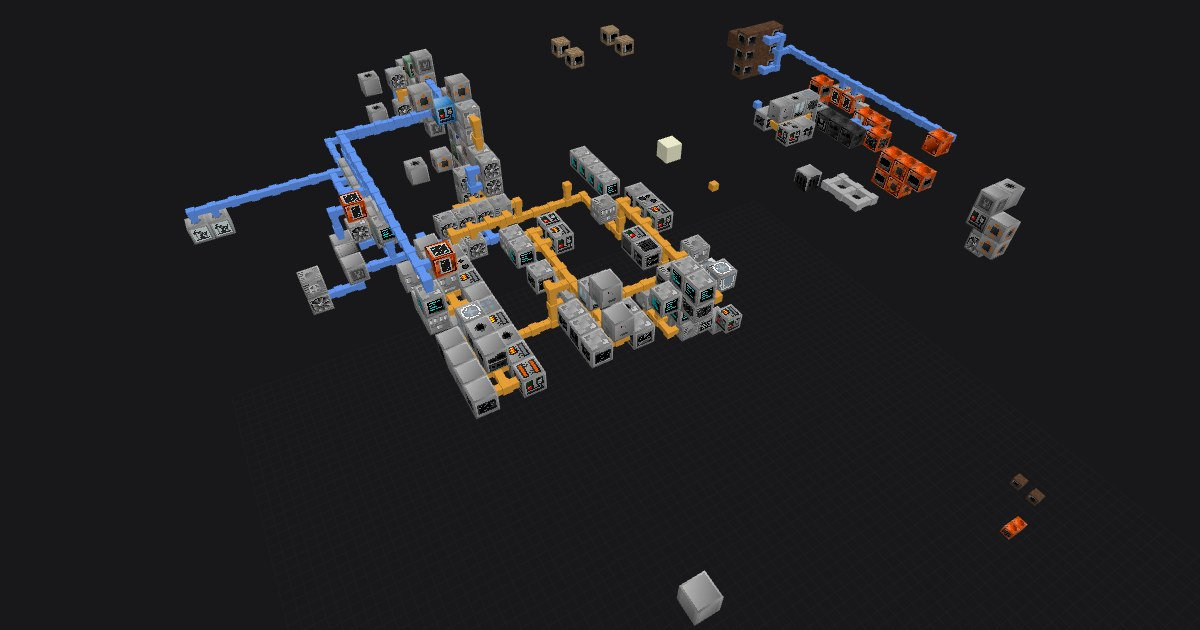
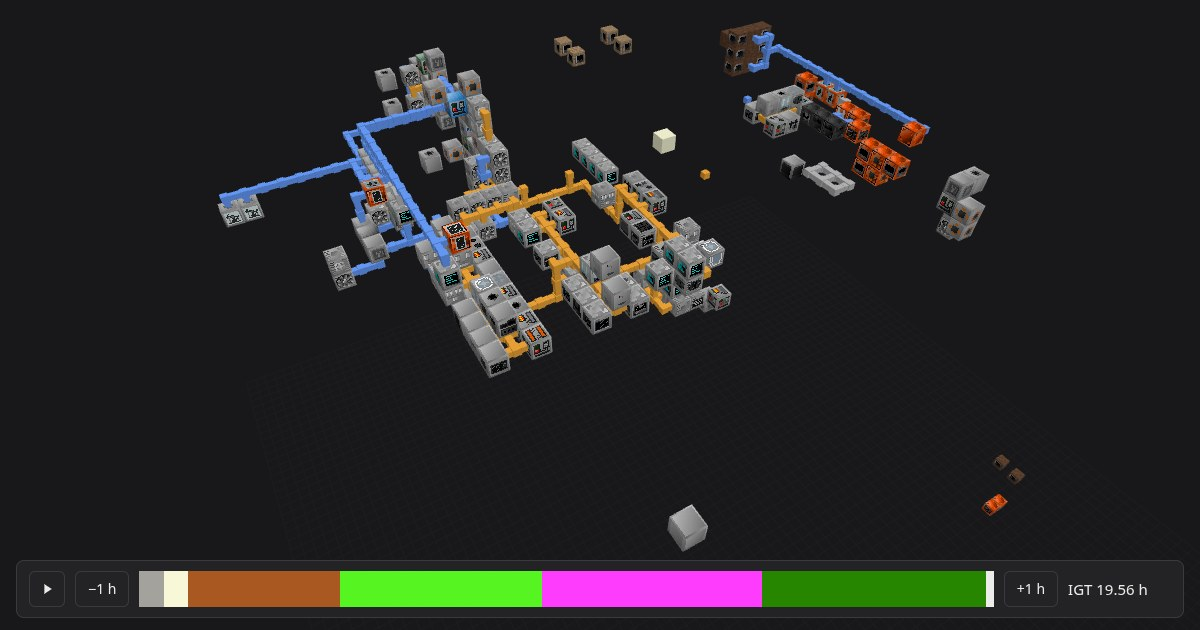
Add tier color to seek bar

diff --git a/runs/20261022_nekonou_moon/index.html b/runs/20261022_nekonou_moon/index.html
@@ -9,7 +9,7 @@
 <meta property="og:url" content="https://orderedset86.github.io/gtnh-runs/runs/20261022_nekonou_moon/">
 <meta property="og:title" content="NekoNou: Moon">
 <meta property="og:description" content="In-game time (IGT) 3D progression timelapse. Reached Moon at 19.54 h IGT.">
-<meta property="og:image" content="https://orderedset86.github.io/gtnh-runs/runs/20261022_nekonou_moon/preview.jpg?v=b18de640728b">
+<meta property="og:image" content="https://orderedset86.github.io/gtnh-runs/runs/20261022_nekonou_moon/preview.jpg?v=23c20ca329fe">
 <meta property="og:image:type" content="image/jpeg">
 <meta property="og:image:width" content="1200">
 <meta property="og:image:height" content="630">
@@ -60,13 +60,13 @@ button.plain:hover { background: var(--grid); }
 .time #play { width: 36px; padding: 0; display: inline-flex; align-items: center; justify-content: center; }
 .time #play svg { display: block; }
 .time output { font-variant-numeric: tabular-nums; min-width: 12ch; font-size: 15px; }
-/* the seek bar: a square-edged track as tall as the buttons, filled up to the selected time (--pct, set by
-   refresh()), with a bar-shaped handle */
-#slider { flex: 1 1 200px; min-width: 120px; height: 36px; margin: 0; background: transparent; cursor: pointer; -webkit-appearance: none; appearance: none; --pct: 100%; }
-#slider::-webkit-slider-runnable-track { height: 36px; border-radius: 0; background: linear-gradient(to right, var(--accent) var(--pct), var(--grid) var(--pct)); }
+/* the seek bar: a square-edged track as tall as the buttons, filled up to the selected time in tier colors
+   (--track, set by refresh()), with a bar-shaped handle */
+#slider { flex: 1 1 200px; min-width: 120px; height: 36px; margin: 0; background: transparent; cursor: pointer; -webkit-appearance: none; appearance: none; --track: var(--grid); }
+#slider::-webkit-slider-runnable-track { height: 36px; border-radius: 0; background: var(--track); }
 #slider::-webkit-slider-thumb { -webkit-appearance: none; width: 8px; height: 36px; border-radius: 0; background: var(--fg); }
-#slider::-moz-range-track { height: 36px; border-radius: 0; background: var(--grid); }
-#slider::-moz-range-progress { height: 36px; border-radius: 0; background: var(--accent); }
+#slider::-moz-range-track { height: 36px; border-radius: 0; background: var(--track); }
+#slider::-moz-range-progress { background: transparent; }
 #slider::-moz-range-thumb { width: 8px; height: 36px; border: 0; border-radius: 0; background: var(--fg); }
 #slider:focus-visible { outline: 2px solid var(--accent); outline-offset: 2px; }
 .limits { color: var(--muted); font-size: 12px; border-top: 1px solid var(--line); padding-top: 6px; }
@@ -274,7 +274,7 @@ function frameView(headingDeg) {
   // the usable area in normalized device coordinates (-1 to 1): 32 px in from the sides and top, and above the
   // timeline. The fit is of block centers, so the margin also leaves room for the near half of each block
   const margin = 32;
-  // a hidden timeline, as in the link-preview image of scripts/publish_run.py, leaves the whole height
+  // a hidden timeline leaves the whole height
   const timeline = document.querySelector('.timeline');
   const timelineTop = (timeline.checkVisibility() ? timeline.getBoundingClientRect().top : innerHeight) - margin;
   const left = -1 + (2 * margin) / innerWidth, right = 1 - (2 * margin) / innerWidth;
@@ -360,6 +360,26 @@ const hasTextures = images.size > 0 && BLOCKS.some((b) => b.tex !== null && b.te
 
 // meshes: machines (one mesh per texture set, or one mesh in tier colors), pipe cores, and pipe arms to joined neighbors
 const machineRows = BLOCKS.filter((b) => !isPipe(b));
+// the seek bar's fill, as in the tier GIF of run_report.timelapse: from each time on, the color of the highest tier
+// placed by then. Stone is the lowest tier that counts. Before the first, the fill is muted
+const tierSteps = [];
+for (const b of [...machineRows].sort((x, y) => x.placedIgtDays - y.placedIgtDays)) {
+  const rank = TIERS.indexOf(b.tier);
+  if (rank > (tierSteps.at(-1)?.rank ?? -1)) tierSteps.push({ rank, days: b.placedIgtDays });
+}
+function trackFill(days) {
+  const pct = (value) => `${((value / Math.max(DATA.endIgtDays, 1e-9)) * 100).toFixed(3)}%`;
+  const css = getComputedStyle(document.documentElement);
+  const steps = [{ color: css.getPropertyValue('--muted').trim(), days: 0 }]
+    .concat(tierSteps.map((step) => ({ color: tierColor(TIERS[step.rank]), days: step.days })));
+  const stops = [];
+  steps.forEach((step, i) => {
+    const end = Math.min(steps[i + 1]?.days ?? Infinity, days);
+    if (step.days < days) stops.push(`${step.color} ${pct(step.days)} ${pct(end)}`);
+  });
+  stops.push(`${css.getPropertyValue('--grid').trim()} ${pct(days)} 100%`);
+  return `linear-gradient(to right, ${stops.join(', ')})`;
+}
 const pipeRows = BLOCKS.filter(isPipe);
 const colorMaterial = new THREE.MeshLambertMaterial();
 const cube = new THREE.BoxGeometry(0.98, 0.98, 0.98);
@@ -451,7 +471,7 @@ function refresh() {
     `Audit mod ${AUDIT_VERSIONS}`,
   ];
   document.getElementById('summary').replaceChildren(...lines.map((text) => Object.assign(document.createElement('span'), { textContent: text })));
-  slider.style.setProperty('--pct', `${(at / Math.max(DATA.endIgtDays, 1e-9)) * 100}%`);
+  slider.style.setProperty('--track', trackFill(at));
   hover.hide();
   scheduleRender();
 }

diff --git a/index.html b/index.html
@@ -4,7 +4,7 @@
 <meta charset="utf-8">
 <meta name="viewport" content="width=device-width, initial-scale=1">
 <title>GTNH Runs</title>
-<meta property="og:image" content="https://orderedset86.github.io/gtnh-runs/runs/20261022_nekonou_moon/preview.jpg?v=b18de640728b">
+<meta property="og:image" content="https://orderedset86.github.io/gtnh-runs/runs/20261022_nekonou_moon/preview.jpg?v=23c20ca329fe">
 <meta property="og:image:type" content="image/jpeg">
 <meta property="og:image:width" content="1200">
 <meta property="og:image:height" content="630">
